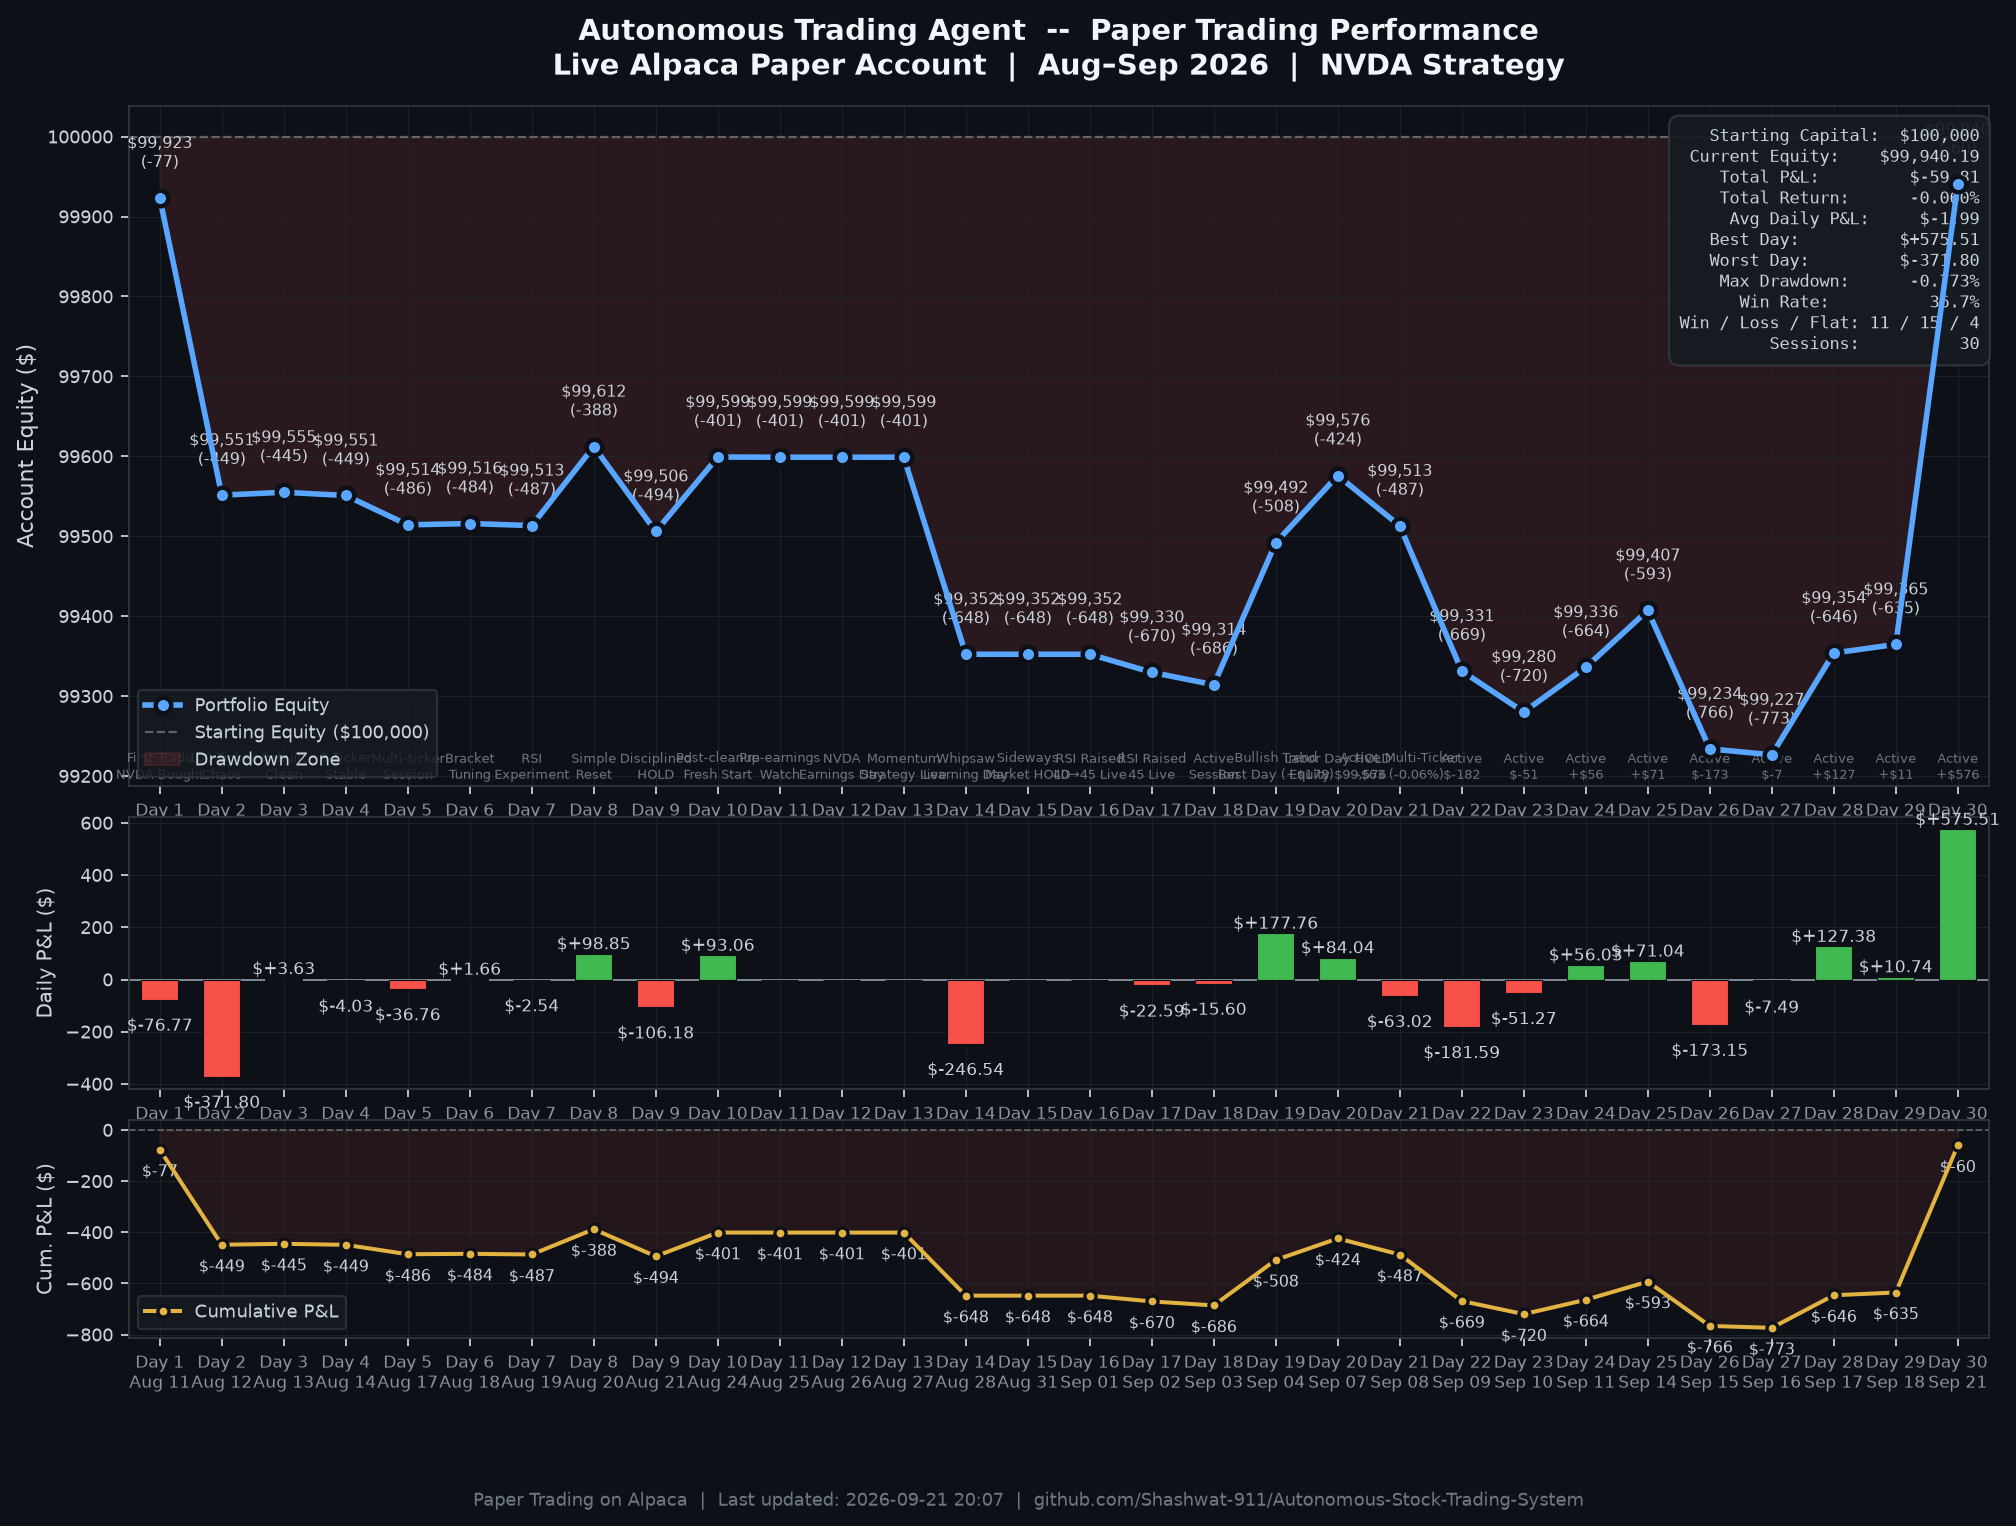
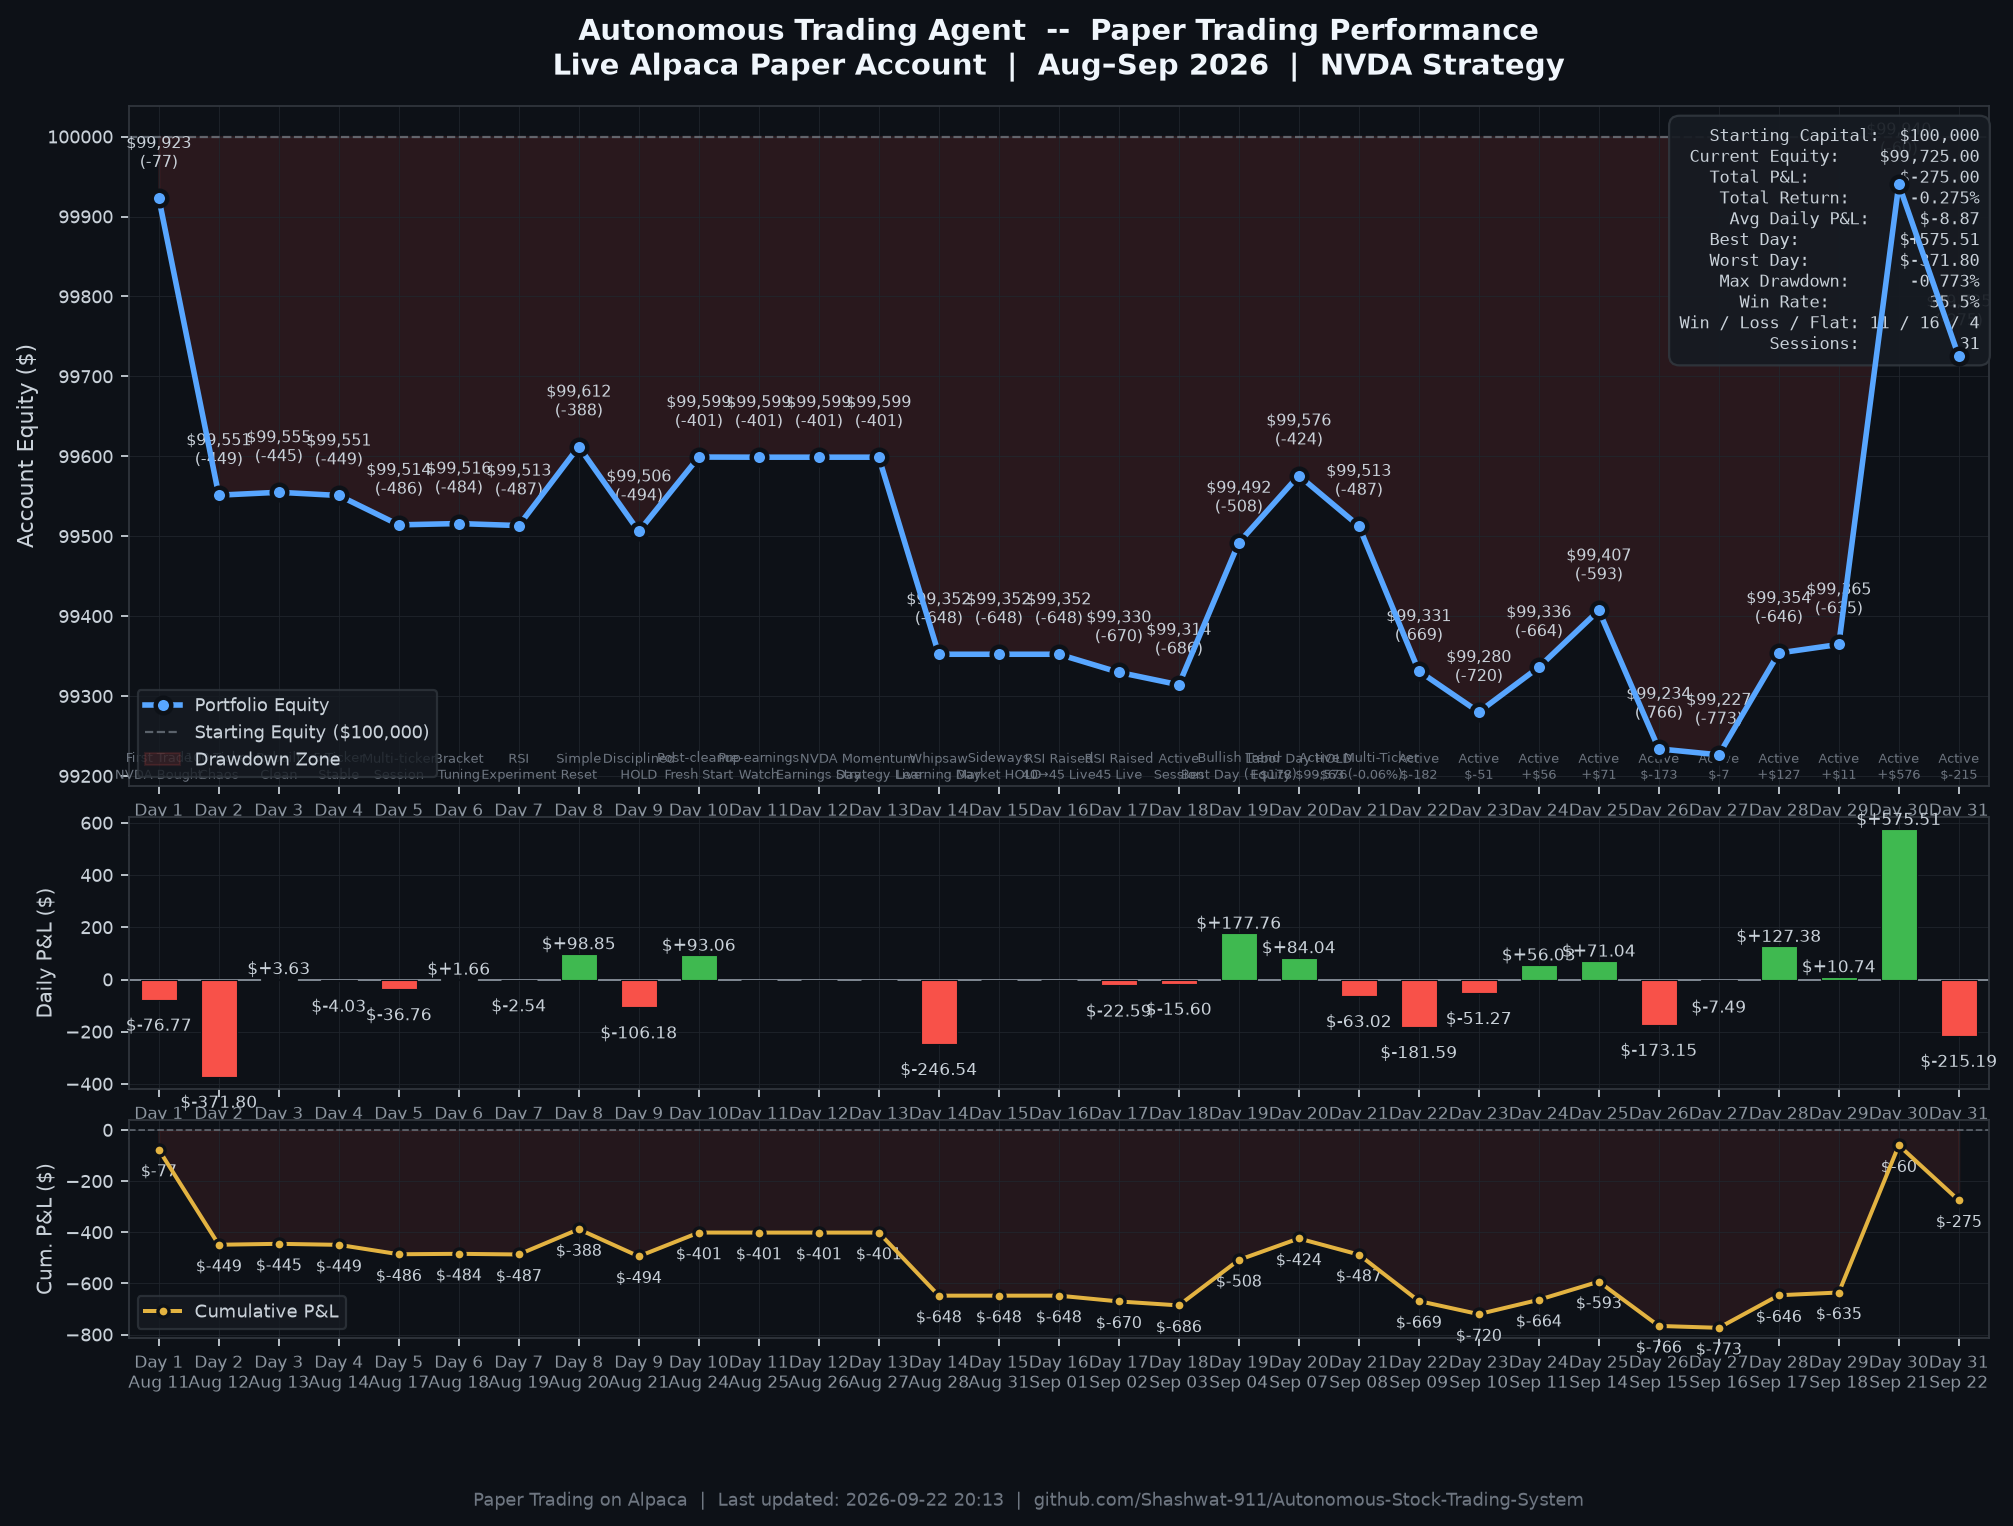
auto(session): 2026-09-22 | equity=$99,725 | return=-0.275%

diff --git a/README.md b/README.md
@@ -47,7 +47,7 @@ The automated trading bot is deployed in the cloud on Render with continuous mon
 
 > **Paper Trading on Alpaca** | Started: Aug 11, 2026 | Initial Capital: $100,000.00 | Universe: NVDA, TSLA, META, MSFT, AAPL (5-Stock High-Momentum Universe)
 
-![Daily P&L Chart](outputs/daily_pnl_chart.png?v=20260921)
+![Daily P&L Chart](outputs/daily_pnl_chart.png?v=20260922)
 
 *Chart auto-generated from live Alpaca Portfolio History API and verified session telemetry via [`scripts/generate_pnl_chart.py`](scripts/generate_pnl_chart.py).*
 
@@ -85,8 +85,9 @@ The automated trading bot is deployed in the cloud on Render with continuous mon
 | **Day 28** | Sep 17 (Thu) | $99,353.94 | **+$127.38** | -$646.06 | -0.646% | Profitable Session (+$127.38) |
 | **Day 29** | Sep 18 (Fri) | $99,364.68 | +$10.74 | -$635.32 | -0.635% | Active Session (+$10.74) |
 | **Day 30** | Sep 21 (Mon) | $99,940.19 | **+$575.51** | -$59.81 | -0.060% | Profitable Session (+$575.51) |
+| **Day 31** | Sep 22 (Tue) | $99,725.00 | -$215.19 | -$275.00 | -0.275% | Loss Session (-$215.19) |
 
-> **Current Equity**: $99,940.19 | **Total P&L**: $-59.81 | **Best Day**: $+575.51 | **Win Rate**: 36.7% (11W / 15L / 4 Flat) | **Max Drawdown**: -0.773% | **Sessions**: 30
+> **Current Equity**: $99,725.00 | **Total P&L**: $-275.00 | **Best Day**: $+575.51 | **Win Rate**: 35.5% (11W / 16L / 4 Flat) | **Max Drawdown**: -0.773% | **Sessions**: 31
 ---
 
 ## System Architecture
